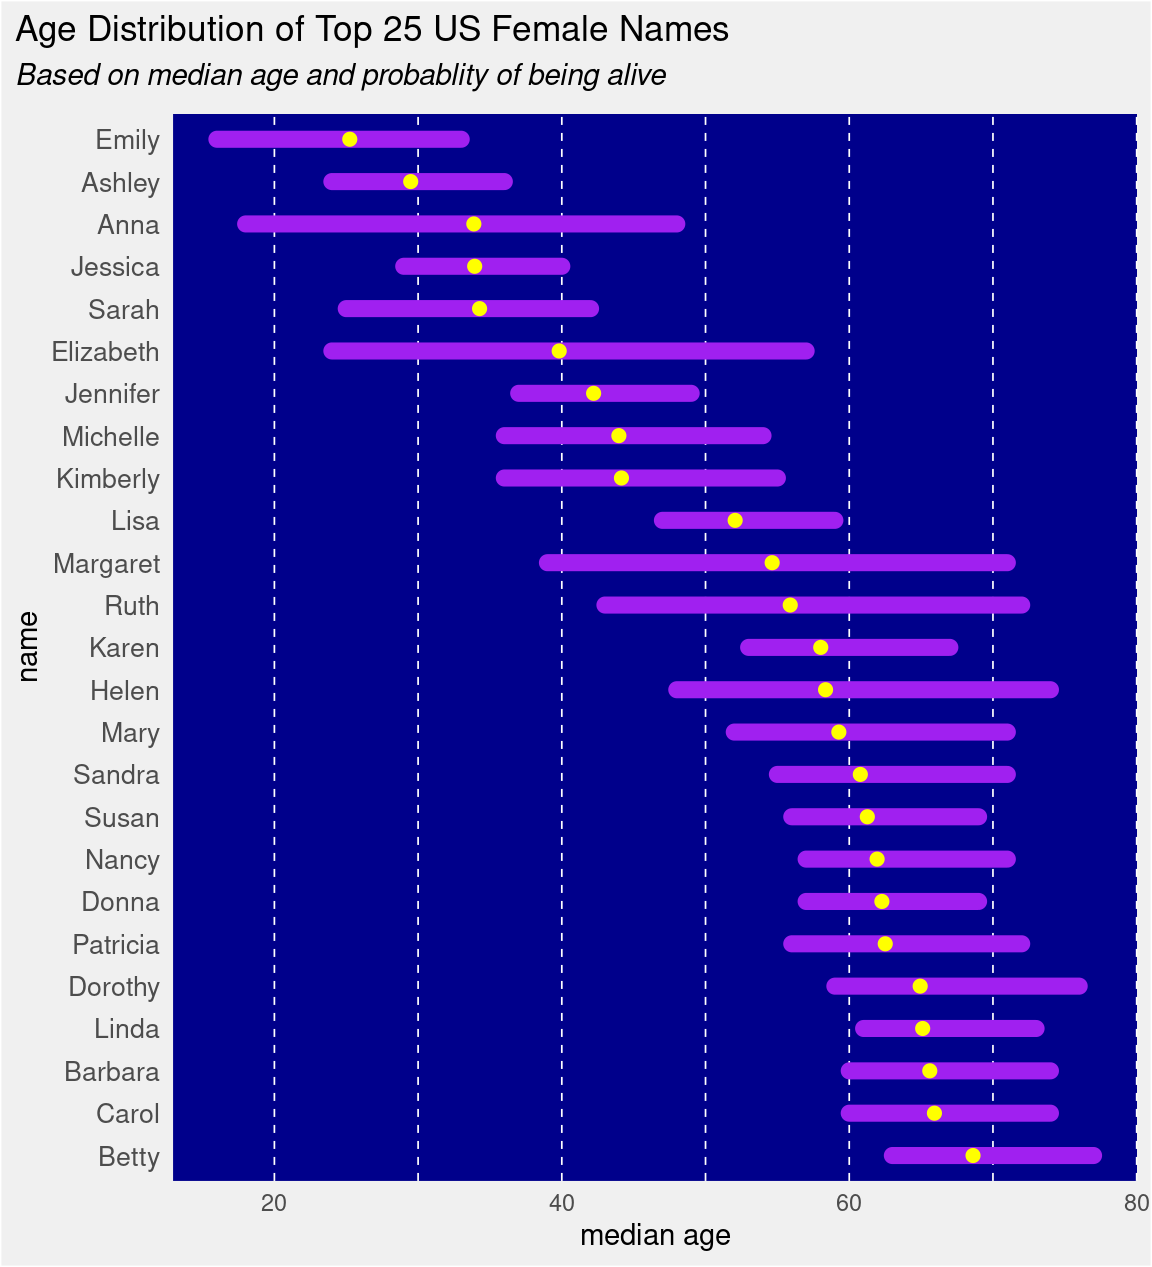
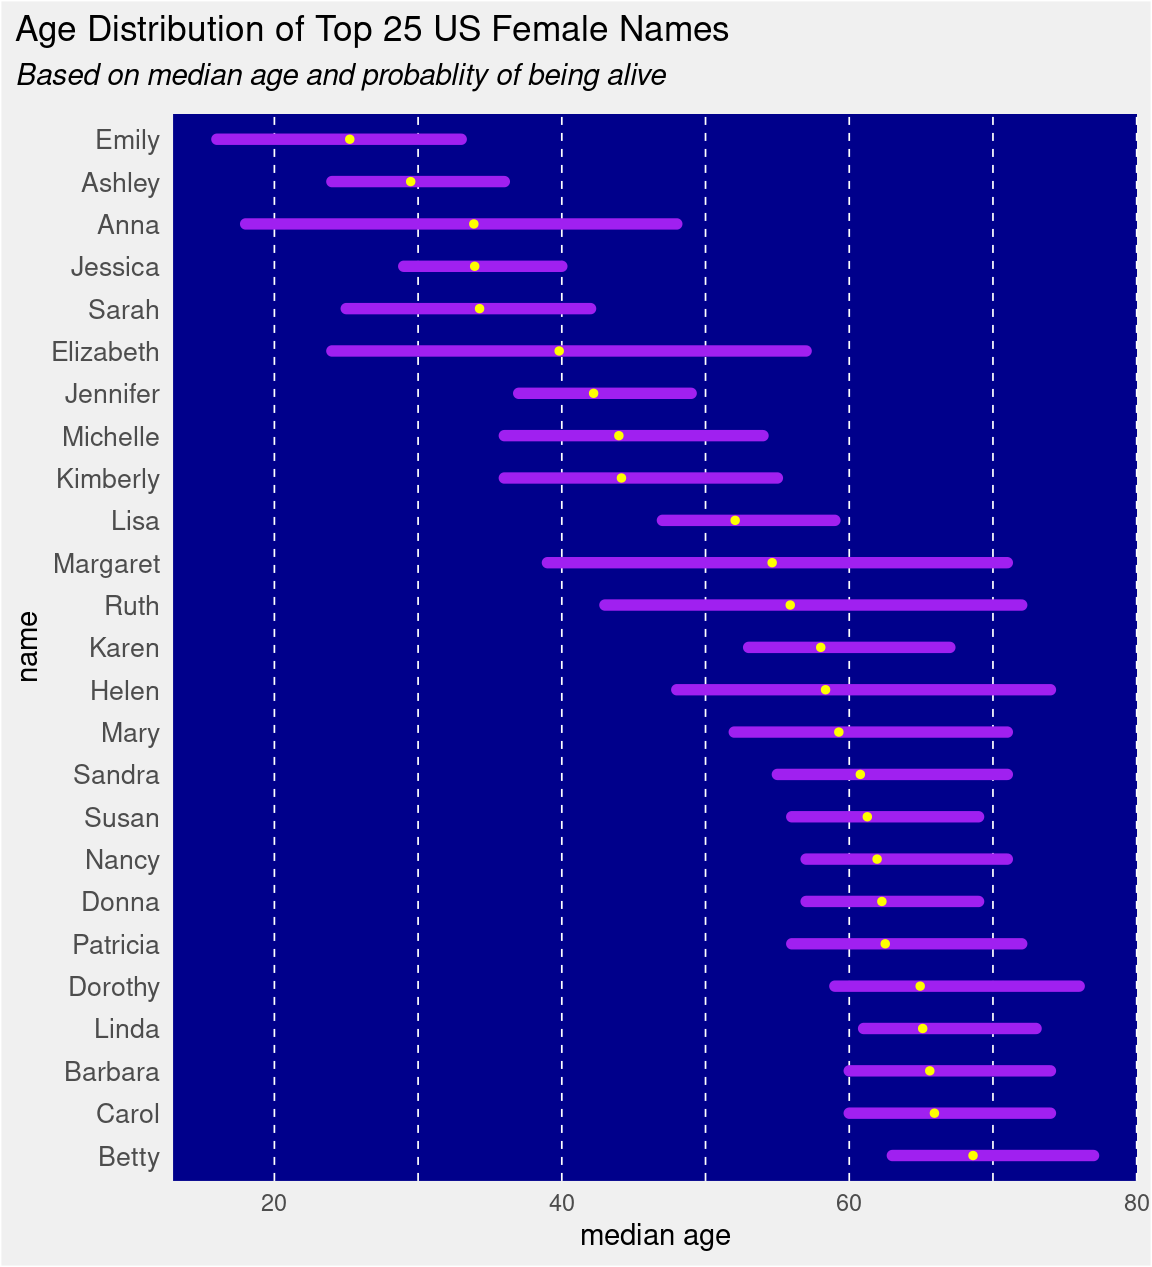
CoRise for Data Science Submission 02

Changed region(s): [[0.1875, 0.0923, 0.9688, 0.9234]]

diff --git a/projects/project-02/project-02-estimate-age-from-name.md b/projects/project-02/project-02-estimate-age-from-name.md
@@ -511,12 +511,12 @@ tbl_names_extended_age |>
       yend = name
     ),
     color = "purple",
-    linewidth = 3,
+    linewidth = 2,
     lineend = "round",
     linejoin = "round"
   ) +
   # Add a point layer:
-  geom_point(size = 2, color = "yellow") +
+  geom_point(size = 1, color = "yellow") +
   # Add labels (title, subtitle, x, y)
   labs(
     title = "Age Distribution of Top 25 US Female Names",
